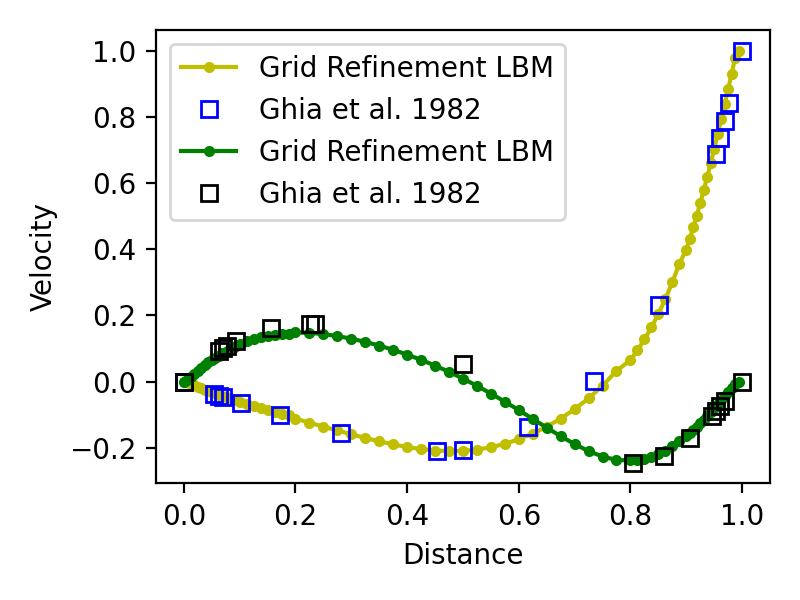
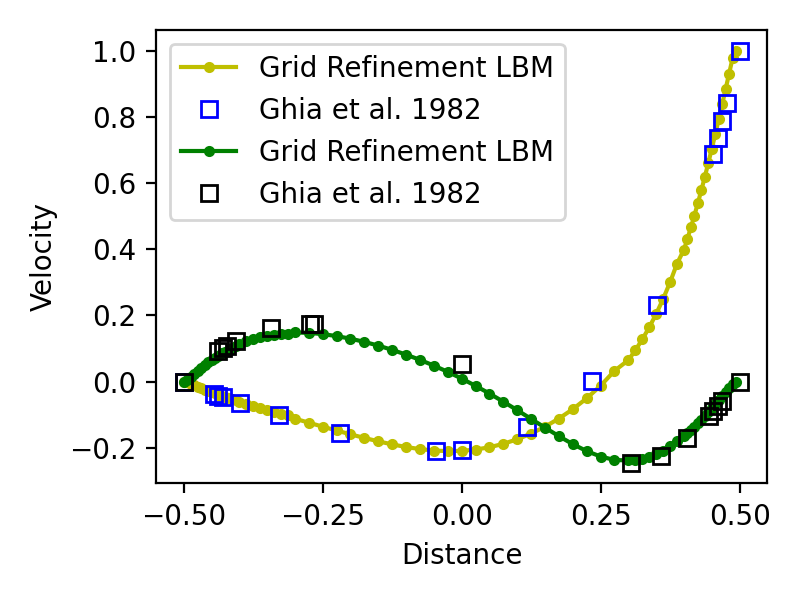
ghia plots

diff --git a/apps/lbmMultiRes/scripts/plot.py b/apps/lbmMultiRes/scripts/plot.py
@@ -7,17 +7,26 @@ def plotme(dat_filename_X="", dat_filename_Y="", label="", png_filename="", scal
     fig, axes = plt.subplots(nrows=1, ncols=1, figsize=(4, 3), dpi=200)
 
     if (dat_filename_Y!=""):
+      
+
         y_neon, u_neon = np.loadtxt(dat_filename_Y, unpack=True, usecols=(0, 1))
+        y_neon -=0.5
         axes.plot(y_neon, scale*u_neon, 'y.-', label=label)
 
+
         y_ref, u_ref = np.loadtxt('ghia1982.dat', unpack=True, skiprows=2, usecols=(0, 1))
+        y_ref -=0.5
         axes.plot(y_ref, u_ref, 'bs', markerfacecolor='none', label='Ghia et al. 1982')
+
+        plt.xticks([-0.5, -0.25, 0.0,  0.25, 0.5])
 
     if (dat_filename_X!=""):        
         x_neon, v_neon = np.loadtxt(dat_filename_X, unpack=True, usecols=(0, 1))
+        x_neon -= 0.5
         axes.plot(x_neon, scale*v_neon, 'g.-', label=label)    
 
         x_ref, v_ref = np.loadtxt('ghia1982.dat', unpack=True, skiprows=2, usecols=(6, 7))
+        x_ref -= 0.5
         axes.plot(x_ref, v_ref, 'ks', markerfacecolor='none',
                   label='Ghia et al. 1982')
 
